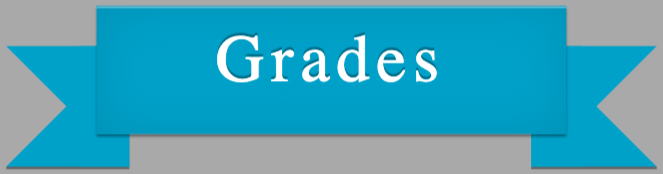
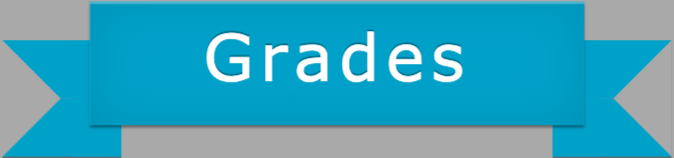
updates

diff --git a/pdf.css b/pdf.css
@@ -92,7 +92,7 @@ body{
 }
 #pieChart{
 	justify-content: left;
-	background-color: white;
+	background-color: rgb(178, 178, 178);
 	padding: 3px;
 	position: fixed;
 	bottom: 0;
@@ -187,7 +187,7 @@ body{
 	height: 30px;
 	position:relative;
 	color: #ffffff;
-	font: 13pt 'comic sans';
+	font: 16pt  verdana, 'calibri';
 	font-size: 20px;
 	text-align: center;
 	letter-spacing:0.1em;
@@ -245,7 +245,7 @@ body{
 			height: 40px;
 			position:relative;
 			color: #ffffff;
-			font: 'comic sans';
+			font: 16pt  verdana, 'calibri';
 			font-size: 20pt;
 			text-align: center;
 			letter-spacing:0.1em;

diff --git a/update_courseinfo.php b/update_courseinfo.php
@@ -102,7 +102,10 @@ $assign10 = $row['assign10'];
 	<link rel="stylesheet" href="https://maxcdn.bootstrapcdn.com/bootstrap/3.4.0/css/bootstrap.min.css">
 	<script src="https://ajax.googleapis.com/ajax/libs/jquery/3.3.1/jquery.min.js"></script>
 	<script src="https://maxcdn.bootstrapcdn.com/bootstrap/3.4.0/js/bootstrap.min.js"></script>
-	<link href="https://fonts.googleapis.com/css?family=Tangerine" rel="stylesheet"> 
+  <link href="https://fonts.googleapis.com/css?family=Tangerine" rel="stylesheet"> 
+  <script src="https://cdn.ckeditor.com/4.11.2/standard/ckeditor.js"></script>
+  <script src="https://cdn.ckeditor.com/ckeditor5/11.2.0/classic/ckeditor.js"></script>
+
 </head>
 
 
@@ -278,15 +281,15 @@ Weight: &nbsp; <input type="text" length="25" name="weight6" value="<?php echo $
 <p id="grade7">
 Name: <input type="text" length="25" name="gradeName7" value="<?php echo $bar[topicname7]; ?>"> &nbsp; 
 Weight: &nbsp; <input type="text" length="25" name="weight7" value="<?php echo $bar[pointvalue7]; ?>"> <br>
-</p><br>
+</p>
 <p id="grade8">
 Name: <input type="text" length="25" name="gradeName8" value="<?php echo $bar[topicname8]; ?>"> &nbsp; 
 Weight: &nbsp; <input type="text" length="25" name="weight8" value="<?php echo $bar[pointvalue8]; ?>"> <br>
-</p><br>
+</p>
 <p id="grade9">
 Name: <input type="text" length="25" name="gradeName9" value="<?php echo $bar[topicname9]; ?>"> &nbsp; 
 Weight: &nbsp; <input type="text" length="25" name="weight9" value="<?php echo $bar[pointvalue9]; ?>"> <br>
-</p><br>
+</p>
 <p id="grade10">
 Name: <input type="text" length="25" name="gradeName10" value="<?php echo $bar[topicname10]; ?>"> &nbsp; 
 Weight: &nbsp; <input type="text" length="25" name="weight10" value="<?php echo $bar[pointvalue10]; ?>"> <br>

diff --git a/generateTCPDFfinal.php b/generateTCPDFfinal.php
@@ -169,16 +169,9 @@ $pdf->Image('images/email-logo.png', '', '', 10, 10, '', '', 'T', false, 300, ''
 
 // THIS IS THE BANNER FOR GRADES
 $pdf->SetXY(10, 130);
-$pdf->Image('images/grades.png', '', '', 90, 20, '', '', 'T', false, 300, '', false, false, 1, false, false, false);
+$pdf->Image('images/gradesbanner.png', '', '', 90, 20, '', '', 'T', false, 300, '', false, false, 1, false, false, false);
 
-// THIS IS THE SCHREENSHOT OF "GRADE" PUT ON TOP OF THE BANNER IMAGE
-$pdf->SetXY(40, 130);
-$pdf->Image('images/grade1.png', '', '', 30, 10, '', '', 'T', false, 300, '', false, false, 1, false, false, false);
-
-
-//
 // Start of the pie chart
-
 $pointvalue1 = $row["pointvalue1"];
 $pointvalue2 = $row["pointvalue2"];
 $pointvalue3 = $row["pointvalue3"];
@@ -191,7 +184,6 @@ $pointvalue9 = $row["pointvalue9"];
 $pointvalue10 = $row["pointvalue10"];
 
 $assign1 = $row["assign1"];
-
 
 $xc = 55; // start of x axis
 $yc = 200; // start of y axis
@@ -399,7 +391,6 @@ if($result3->num_rows > 0){
 include 'showSymbol.php';
 
 if ($row[meetingDays] == "TTR"){
-
  $html = '
 <style>
 table.first {
@@ -668,7 +659,7 @@ td {
 $pdf->writeHTML($html, true, false, true, false, '');
 
 }// if bracket/ end of TTR portion
-elseif ($row[meetingDays] == "M") { // start of MWF portion
+elseif ($row[meetingDays] == "M") { 
 
 $html = '
 <style>

diff --git a/pdf.php b/pdf.php
@@ -130,7 +130,7 @@ if($result->num_rows > 0) {
 </div><!--end bookInfo-->
 
 <div class="importantpoints">
-	<div id="ribbon2">Important Pointssssss</div>
+	<div id="ribbon2">Important Points</div>
 	<div id="pointsContainer">
 		<?php
 		$imp_points = $row["importantpoints"];
